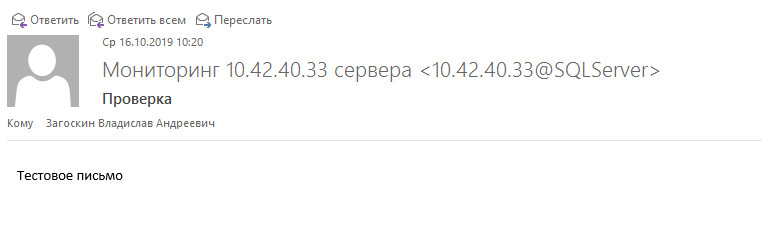
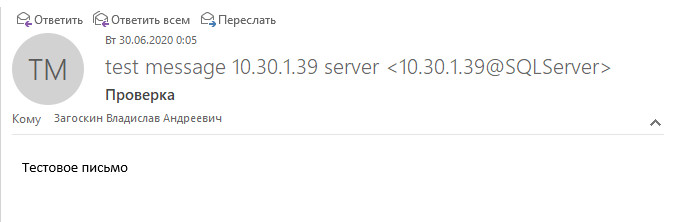
Редактирование стеÑатьи, добавление скринов

diff --git a/Настройка SQL Server для отправки email писем/README.md b/Настройка SQL Server для отправки email писем/README.md
@@ -2,59 +2,61 @@
 
 ## Оглавление
 
-* ### [Описание](#Описание)
+* [Описание](#Описание)
 
-* ### [Подготавливаем сервер](#Подготавливаем-сервер)
+* [Подготовка сервера](#Подготовка-сервера)
 
-* ### [Создаем аккаунт](#Создаем-аккаунт)
+* [Создание аккаунта](#Создание-аккаунта)
 
-* ### [Создаем профиль](#Создаем-профиль)
+* [Создание профиля](#Создание-профиля)
 
-* ### [Добавляем аккаунт в профиль](#Добавляем-аккаунт-в-профиль)
+* [Добавляем аккаунт в профиль](#Добавление-аккаунта-в-профиль)
 
-* ### [Предоставляем профилю публичные права на отправку](#Предоставляем-профилю-публичные-права-на-отправку)
+* [Предоставление разрешения на использование профиля](#Предоставление-разрешения-на-использование-профиля)
 
-* ### [Проверка нашего профиля](#Проверка-нашего-профиля)
+* [Проверяем отправку email сообщения](#Проверяем-отправку-email-сообщения)
 
-* ### [Удаление](#Удаление)
+* [Удаление](#Удаление)
 
-* ### [Альтернативный вариант](#Альтернативный-вариант)
-
----
-
-* ### [Вернуться](../different.md)
+* [Альтернативный вариант](#Альтернативный-вариант)
 
 ## Описание
 
-Последнее время при разработке в системе `WebTutor` часто появляются мысли, что было бы неплохо отслеживать некоторые моменты на стороне SQL Server и ежедневно отправлять какие либо email письма на почту с данными или просто оповещением. В этой статье мы займемя настройкой SQL Server.
+В этой статье будет разобран один из способов настройки SQL Server для отправки email
+ уведомление. Для этого нам понадобятся следующие "компоненты":
 
-Что необходимо для настройки:
-
-  1. Сервер SQL, где хранятся данные WebTutor
-  2. Роль администратора на сервере SQL
-  3. Сервер SMTP - почтовый сервер
+  1. SQL Server
+  2. Microsoft SQL Server Management Studio
+  2. Доступ к SQL серверу с ролью администратора
+  3. SMTP сервер
   4. Данные для подключения к SMTP серверу
 
-Я не профи в области администрирования серверов или глубоких познаний в SQL, все что будет описано в этой статье протестировано на нескольких серверах. Если у вас возникли проблемы на каких-либо этапах, обратитесь за помощью к вашим специалистам, устраните ошибки и продолжайте дальше.
+Если у вас возникли проблемы на каких-либо этапах, обратитесь за помощью к вашим специалистам, устраните ошибки и продолжайте дальше.
 
-## Подготавливаем сервер
+## Подготовка сервера
 
-Мы будем работать с БД `msdb`, для этого проверим текущее состояние сервис-брокер, выполнив запрос:
+Проверим текущее состояние сервис-брокера, выполнив запрос:
 
 ```sql
+USE master
+
 SELECT   name
         ,database_id
         ,is_broker_enabled
-FROM sys.databases
+FROM	sys.databases
+WHERE	name = 'msdb'
 ```
+![check_service_broker](./img/check_service_broker.jpg)
 
-Если в поле `is_broker_enabled` у нас стоит значение `0`, то выполняем следующий SQL запрос:
+
+Если в поле `is_broker_enabled` указано значение `0`, то выполним следующий запрос:
 
 ```sql
 ALTER DATABASE msdb SET ENABLE_BROKER WITH ROLLBACK IMMEDIATE;
 ```
+![enable_service_broker](./img/enable_service_broker.jpg)
 
-После этого проверка предыдущим запросом должна показать `1` в поле `is_broker_enabled` для базы `msdb`.
+Операция должна выполниться без ошибок, а результат предыдущего запроса должен показать `1` в поле `is_broker_enabled`
 
 Включаем опцию `DatabaseMail XPs` через системную процедуру `sp_configure`, выполнив следующий запрос:
 
@@ -66,130 +68,166 @@ GO
 sp_CONFIGURE 'Database Mail XPs', 1 -- включаем опцию использования email
 RECONFIGURE
 ```
+![on_options](./img/on_options.jpg)
 
-Для проверки включения опции запустите процедуру `sp_configure` без каких-либо опций:
+Запрос должен выполниться без ошибок. Для проверки включения опций необходимо выполнить процедуру `sp_configure
+`:
 
 ```sql
-sp_configure
+GO
+sp_configure @configname = 'show advanced'
+GO
+sp_configure @configname = 'Database Mail XPs'
 ```
 
-Найдите в списке строку `Database Mail XPs` и убедитесь, что поля `config_value` и `run_value` имеют значение `1`.
+Проверяем, что для каждой из конфигураций, поля `config_value` и `run_value` имеют значение `1`.  
+![check_on_options](./img/check_on_options.jpg)
 
-![databasemail_xps](./img/databasemail_xps.jpg)
+## Создание аккаунта
 
-## Создаем аккаунт
+Для создания аккаунта используется процедура `sysmail_add_account_sp`. Процедура `sysmail_add_account_sp` имеет гораздо больше параметров, включая порт сервера, логин, пароль и т.д. Узнать подробнее можно по ссылке [sysmail_add_account_sp](https://docs.microsoft.com/ru-ru/sql/relational-databases/system-stored-procedures/sysmail-add-account-sp-transact-sql?view=sql-server-ver15)
 
-**ВАЖНО!!!**
-
-1. Вместо переменных вы можете использовать просто строки для их указания.
-2. Процедура `sysmail_add_account_sp` имеет гораздо больше параметров, включая порт сервера, логин, пароль и т.д. Узнать подробнее можно по ссылке [sysmail_add_account_sp](https://docs.microsoft.com/ru-ru/sql/relational-databases/system-stored-procedures/sysmail-add-account-sp-transact-sql?view=sql-server-ver15)
-
+Выполним следующий запрос для создания аккаунта:
 ```sql
 -- Формируем переменные для аккаунта
-DECLARE @disp_name varchar(100) = 'Мониторинг '+ CAST(CONNECTIONPROPERTY('local_net_address') AS varchar) +' сервера';
-DECLARE @em_adress varchar(100) = (SELECT CAST(CONNECTIONPROPERTY('local_net_address') AS varchar) + '@SQLServer');
+DECLARE @account_name varchar(100) = 'test_account';
+DECLARE @description varchar(100) = 'test account description'
+DECLARE @email_address varchar(100) = (SELECT CAST(CONNECTIONPROPERTY('local_net_address') AS varchar) + '@SQLServer');
+DECLARE @display_name varchar(100) = (SELECT 'test message '+ CAST(CONNECTIONPROPERTY('local_net_address') AS varchar) +' server');
+DECLARE @mailserver_name varchar(100) = '10.30.1.58'
 
 -- Создание аккаунта
 EXECUTE msdb.dbo.sysmail_add_account_sp
-    @account_name = 'monitoring_agent',
-    @description = 'Отправка писем с вложеными результатами по мониторингу кафетерия льгот',
-    @email_address = @em_adress,
-    @replyto_address = @em_adress,
-    @display_name = @disp_name,
-    @mailserver_name = '10.10.10.10';
+    @account_name = @account_name,          -- Название аккаунта
+    @description = @description,            -- Описание аккаунта
+    @email_address = @email_address,	    -- Адрес отправителя
+    @replyto_address = @email_address,	    -- Адрес для ответа на сообщения
+    @display_name = @display_name,          -- Отображаемое имя отправителя в сообщении
+    @mailserver_name = @mailserver_name;    -- Адрес SMTP сервера
 ```
 
-## Создаем профиль
+Запрос на создание аккаунта должен выполниться без ошибок.  
+![create_account](./img/create_account.jpg)
 
-Создаем профиль:
+## Создание профиля
 
+Для создания профиля используется процедура `msdb.dbo.sysmail_add_profile_sp
+`. Подробнее о процедуре создания профиля [sysmail_add_profile_sp](https://docs.microsoft.com/vi-vn/sql/relational-databases/system-stored-procedures/sysmail-add-profile-sp-transact-sql?view=sql-server-2017)
+
+Выполним следующий запрос, который создаст для нас профиль
 ```sql
+-- Формируем переменные для профиля
+DECLARE @profile_name varchar(100) = 'test_profile';
+DECLARE @description varchar(255) = 'test profile description'
+
 -- Создание профиля
 EXECUTE msdb.dbo.sysmail_add_profile_sp
-    @profile_name = 'monitoring_agent_profile',
-    @description = 'Профиль для отправки публичных писем по мониторингу кафетерия льгот' ;
+    @profile_name = @profile_name,	-- Название профиля
+    @description = @description;	-- Описание профиля
 ```
 
-Подробнее о процедуре создания профиля [sysmail_add_profile_sp](https://docs.microsoft.com/vi-vn/sql/relational-databases/system-stored-procedures/sysmail-add-profile-sp-transact-sql?view=sql-server-2017)
+Запрос на создание аккаунта должен выполниться без ошибок.  
+![create_profile](./img/create_profile.jpg)
 
-## Добавляем аккаунт в профиль
+## Добавление аккаунта в профиль
 
-Не забудьте, если вы меняете имена аккаунта или профиля при создании, то тут они должны соответсвовать.
+Далее необходимо добавить аккаунт в профиль, для этого будем использовать процедуру `msdb.dbo
+.sysmail_add_profileaccount_sp`. Подробнее о процедуре добавления аккаунта к профилю [sysmail_add_profileaccount_sp
+](https://docs.microsoft.com/ru-ru/sql/relational-databases/system-stored-procedures/sysmail-add-profileaccount-sp-transact-sql?view=sql-server-ver15)
 
+Выполним следующий запрос, который добавит аккаунт в профиль
 ```sql
+-- Формируем переменные для профиля
+DECLARE @profile_name varchar(100) = 'test_profile';
+DECLARE @account_name varchar(100) = 'test_account';
+DECLARE @sequence_number int = 1;
+
 -- Добавляем аккаунт в профиль
 EXECUTE msdb.dbo.sysmail_add_profileaccount_sp
-    @profile_name = 'monitoring_agent_profile',
-    @account_name = 'monitoring_agent',
-    @sequence_number = 1 ;
+    @profile_name = @profile_name,			-- Название профиля	
+    @account_name = @account_name,			-- Название аккаунта
+    @sequence_number = @sequence_number;	-- Порядковый номер аккаунта в профиле
 ```
 
-`@sequence_number` - порядковый номер аккааунта в профиле, так как наш профиль новый, то добавляемый аккаунт будет под номером `1`.
+`@sequence_number` - порядковый номер аккаунта в профиле, так как наш профиль новый, то добавляемый аккаунт будет под номером `1`.
 
-Подробнее о процедуре добавления аккаунта к профилю [sysmail_add_profileaccount_sp](https://docs.microsoft.com/ru-ru/sql/relational-databases/system-stored-procedures/sysmail-add-profileaccount-sp-transact-sql?view=sql-server-ver15)
+Запрос на создание аккаунта должен выполниться без ошибок.  
+![add_account_in_profile](./img/add_account_in_profile.jpg)
 
-## Предоставляем профилю публичные права на отправку
+## Предоставление разрешения на использование профиля
 
-Тут мы будем давать профилю публичные права на отправку, тоесть любой пользователь может использовать наш профиль и отправлять через него сообщения.
+Для предоставления разрешения на использование профиля используется процедура `msdb.dbo.sysmail_add_principalprofile_sp
+`. Публичный профиль доступен для всех пользователей в базе данных `msdb`
+ , хотя пользователи также должны быть членами роли DatabaseMailUserRole для выполнения sp_send_dbmail
+ . Подробнее о процедуре предоставления прав профилю [sysmail_add_principalprofile_sp](https://docs.microsoft.com/ru-ru/sql/relational-databases/system-stored-procedures/sysmail-add-principalprofile-sp-transact-sql?view=sql-server-ver15)
 
+Выполним следующий запрос, который сделает профиль открытым (публичным)
 ```sql
+-- Формируем переменные для профиля
+DECLARE @profile_name varchar(100) = 'test_profile';
+DECLARE @principal_name varchar(100) = 'public';
+DECLARE @is_default int = 1;
+
+-- Делаем профиль публичным
 EXECUTE msdb.dbo.sysmail_add_principalprofile_sp
-    @profile_name = 'monitoring_agent_profile',
-    @principal_name = 'public',
-    @is_default = 1 ;
+    @profile_name = @profile_name,          -- Название профиля
+    @principal_name = @principal_name,      -- Статус профиля
+    @is_default = @is_default;              -- Профиль по умолчанию
 ```
 
-Подробнее о процедуре предоставления прав профилю [sysmail_add_principalprofile_sp](https://docs.microsoft.com/ru-ru/sql/relational-databases/system-stored-procedures/sysmail-add-principalprofile-sp-transact-sql?view=sql-server-ver15)
+Запрос на создание аккаунта должен выполниться без ошибок.  
+![open_profile](./img/open_profile.jpg)
 
-## Проверка нашего профиля
+## Проверяем отправку email сообщения
 
-После всех настроек мы должны иметь возможность отправлять письма. Для проверки сформируем тело письма и отправим его на свой адрес.
-
-Для отправки писем используется процедура `sp_send_dbmail`, которая имеет множество аргументов про которые можно почитать по [этой ссылке](https://docs.microsoft.com/ru-ru/sql/relational-databases/system-stored-procedures/sp-send-dbmail-transact-sql?view=sql-server-ver15). Мы же используем минимальный набор для тестирования и выполним следующий запрос:
+Для отправки писем используется процедура `sp_send_dbmail`, подробнее о процедуре [sp_send_dbmail](https://docs.microsoft.com/ru-ru/sql/relational-databases/system-stored-procedures/sp-send-dbmail-transact-sql?view=sql-server-ver15).  
+Мы используем минимальный набор для тестирования и выполним следующий запрос:
 
 ```sql
-exec  msdb.dbo.sp_send_dbmail
-    @Profile_name = 'monitoring_agent_profile',
-    @Recipients   = 'vladislav.zagoskin@...',
-    @body = 'Тестовое письмо',
-    @body_format = 'TEXT',
-    @Subject = 'Проверка';
+-- Отправляем email сообщение
+EXEC  msdb.dbo.sp_send_dbmail
+    @Profile_name = 'test_profile',					-- Название профиля
+    @Recipients   = 'vladislav.zagoskin@rt.ru',		-- Адресаты через ;
+    @body = 'Тестовое письмо',						-- Тело письма
+    @body_format = 'TEXT',							-- Формат тела письма
+    @Subject = 'Проверка';							-- Тема письма
 ```
+![send_email](./img/send_email.jpg)
 
-Результатом должно быть присланное сообщение на указанную почту, мне пришло так:
+Результатом должно быть присланное сообщение на указанную почту:
 
 ![test_mail](./img/test_mail.jpg)
 
 ## Удаление
 
-Чтобы удалить аккаунт из профиля, достаточно выполнить процедуру `sysmail_delete_profileaccount_sp` с указанием профиля и аккаунта:
+Чтобы удалить аккаунт из профиля, можно выполнить процедуру `sysmail_delete_profileaccount_sp
+` с указанием профиля и аккаунта:
 
 ```sql
 EXECUTE msdb.dbo.sysmail_delete_profileaccount_sp
-    @profile_name = 'monitoring_agent_profile',
-    @account_name = 'monitoring_agent'
+    @profile_name = 'test_profile',
+    @account_name = 'test_account'
 ```
 
 Для удаления аккаунта можно воспользоваться процедурой `sysmail_delete_account_sp` с указанием имени аккаунта:
 
 ```sql
 EXECUTE msdb.dbo.sysmail_delete_account_sp
-    @account_name = 'monitoring_agent'
+    @account_name = 'test_account'
 ```
 
 Для удаления профиля можно воспользоваться процедурой `sysmail_delete_profile_sp` с указанием имени профиля:
 
 ```sql
 EXECUTE msdb.dbo.sysmail_delete_profile_sp
-    @profile_name = 'monitoring_agent_profile'
+    @profile_name = 'test_profile'
 ```
 
 ## Альтернативный вариант
 
-SQL Server предоставляет графический интерфейс для настройки отправки email писем, для этого нужно подключиться к серверу и в обозревателе объектов найти пункт `Компоненты Database Mail` и запустить его.
+SQL Server предоставляет UI интерфейс для настройки отправки email
+ писем, для этого нужно подключиться к серверу и в обозревателе объектов найти пункт `Компоненты Database Mail` и запустить его.
 
 ![light_advanced](./img/light_advanced.jpg)
 
 Откроется интерфейс для настройки.
-
-### [Вверх](#Настройка-SQL-Server-для-отправки-email-писем)
